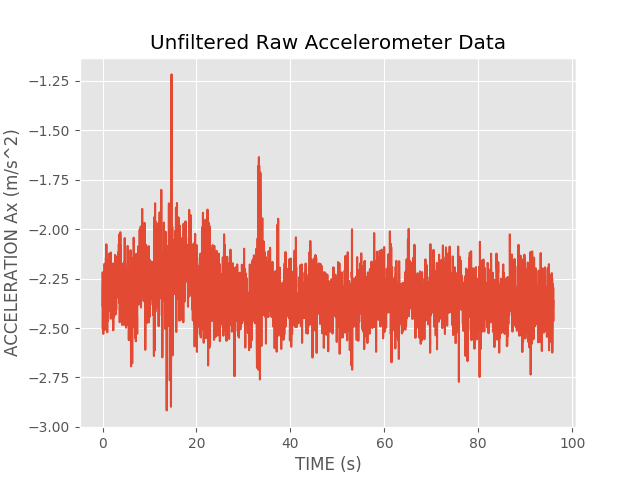
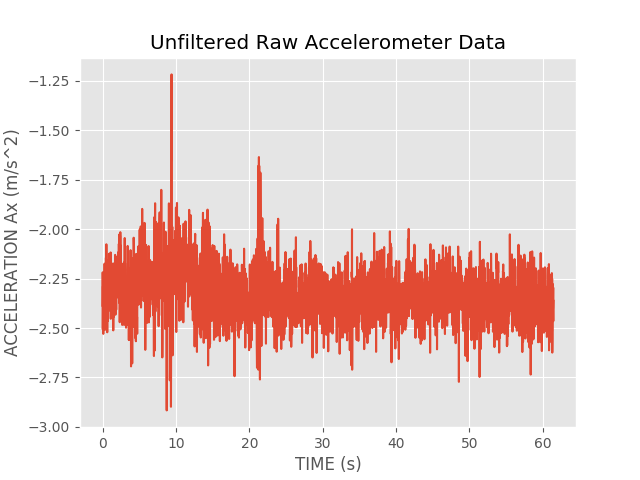
Set Fs before plotting graph

diff --git a/sleep_monitor.py b/sleep_monitor.py
@@ -97,7 +97,7 @@ def apply_kalman_filter(data):
   r_measurement = np.zeros((n_segments, 3)) # observation measurements
 
   # initial guesses
-  p[0] = 1.0  
+  p[0] = 1.0
   rhat[0] = 40
   for segment_number in range(1, n_segments):
     segment = get_segment(data, segment_number-1, segment_size_for_kalman)
@@ -141,10 +141,8 @@ def apply_fft_on_xyz(data):
   return r_x, r_y, r_z
 
 def fft(data):
-  data = np.array(list(filter(lambda row: np.isfinite(np.sum(row)), data)), dtype=np.float64)
   N = len(data)
-
-  data = sp.signal.detrend(data)
+  data = sp.signal.detrend(data)  
   fft_data = sp.fftpack.fft(data)
   f = np.linspace(0, N/sampling_frequency, N)
 
@@ -179,10 +177,10 @@ def apply_fft(acc_data, title, plot_save_path):
   return f[max_index]*60
 
 def sleep_monitor(data, sampling_freq):
-  plot_ax(data, 'Raw Accelerometer Data', 'plots/sleep_monitor/raw_ax.png')
-
   global sampling_frequency
   sampling_frequency = sampling_freq
+
+  plot_ax(data, 'Raw Accelerometer Data', 'plots/sleep_monitor/raw_ax.png')
   data = segment(data)
   if (len(data) == 0):
     print('Failed in data preprocessing: no data segments to process')

diff --git a/seismotracker.py b/seismotracker.py
@@ -107,10 +107,10 @@ def apply_pass_filter(unfiltered_data, btype, cutoff, plot_save_path):
   return filtered_data
 
 def seismotracker(data, sampling_freq):
-  plot(data[:,0], 'Unfiltered Raw Accelerometer Data', 'plots/seismotracker/raw_ax.png')
-
   global sampling_frequency
   sampling_frequency = sampling_freq
+
+  plot(data[:,0], 'Unfiltered Raw Accelerometer Data', 'plots/seismotracker/raw_ax.png')
   normalized_data = normalize(data)
   print('Breathing Rate:')
 

diff --git a/bio_watch.py b/bio_watch.py
@@ -147,9 +147,9 @@ def calculate_heart_rate(normalized_data):
   return 60*max_freq
 
 def bio_watch(data, sampling_freq):
-  plot(data[:,0], 'Raw Accelerometer Data', 'plots/bio_watch/raw_ax.png')
   global sampling_frequency
   sampling_frequency = sampling_freq
+  plot(data[:,0], 'Raw Accelerometer Data', 'plots/bio_watch/raw_ax.png')
   normalized_data = normalize(data)
   plot(normalized_data[:,0], 'Normalized Accelerometer Data', 'plots/bio_watch/normalized.png')
 
